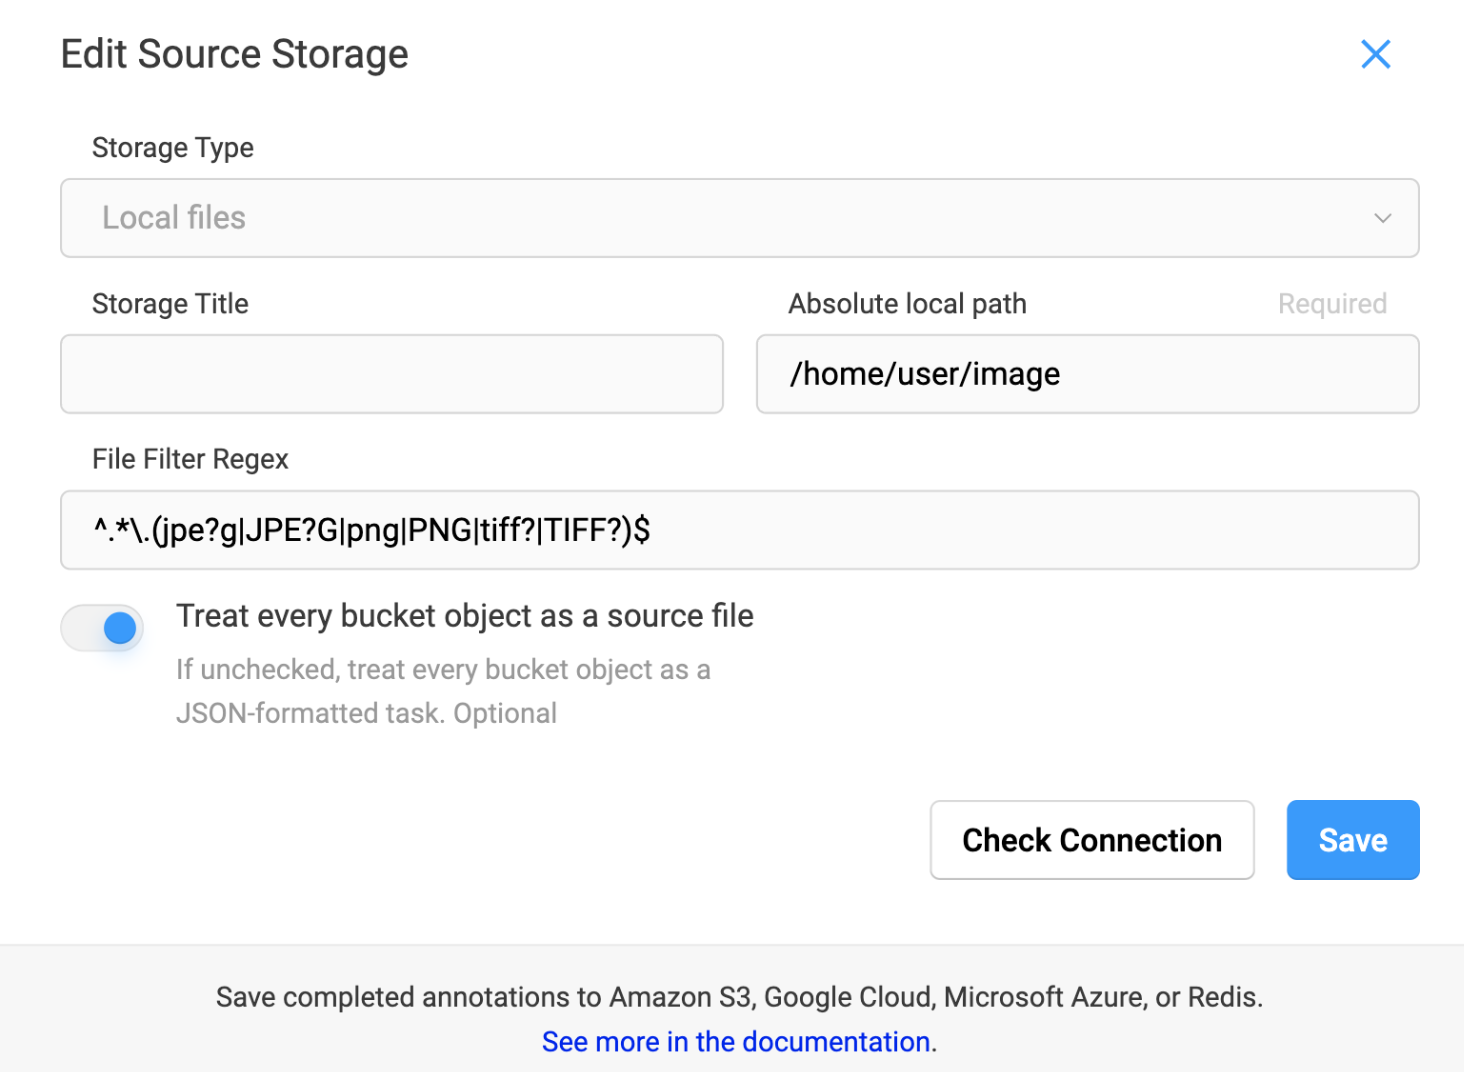
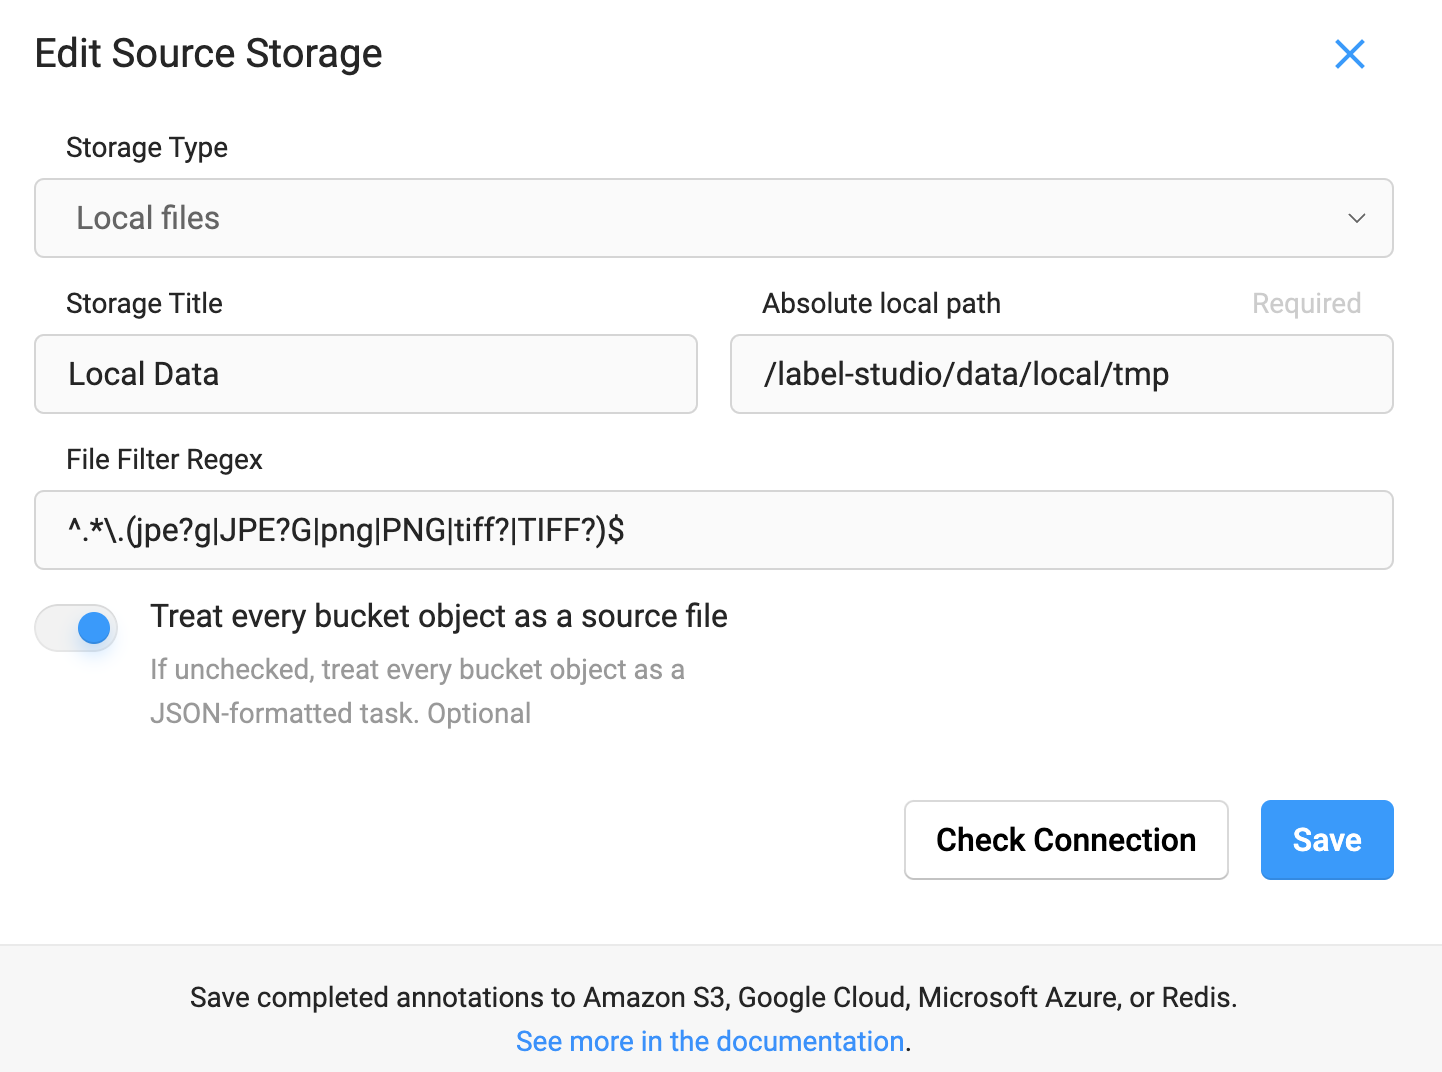
:bento: Update: LabelStudio.json()

diff --git a/zerohertzLib/vision/data.py b/zerohertzLib/vision/data.py
@@ -79,9 +79,9 @@ class LabelStudio:
         Without ``json_path``:
             >>> ls = zz.vision.LabelStudio(data_path)
             >>> ls[0]
-            ('0000007864.png', {'data': {'image': 'data/local-files/?d=image/0000007864.png'}})
+            ('0000007864.png', {'data': {'image': 'data/local-files/?d=/label-studio/data/local/tmp/0000007864.png'}})
             >>> ls[1]
-            ('0000008658.png', {'data': {'image': 'data/local-files/?d=image/0000008658.png'}})
+            ('0000008658.png', {'data': {'image': 'data/local-files/?d=/label-studio/data/local/tmp/0000008658.png'}})
 
         With ``json_path``:
             Bbox:
@@ -115,6 +115,7 @@ class LabelStudio:
     ) -> None:
         self.annotations = None
         if json_path is None:
+            self.path = "/label-studio/data/local"
             self.data_paths = _get_image_paths(data_path)
         else:
             self.annotations = Json(json_path)
@@ -131,16 +132,16 @@ class LabelStudio:
         self, idx: int
     ) -> Union[Tuple[str, Dict[str, Dict[str, str]]], Tuple[str, Dict[str, List[Any]]]]:
         if self.annotations is None:
-            file_name = self.data_paths[idx].split("/")[-1]
+            file_name = os.path.basename(self.data_paths[idx])
             return (
                 file_name,
                 {
                     "data": {
-                        "image": f"data/local-files/?d=image/{self.data_paths[idx]}"
+                        "image": f"data/local-files/?d={self.path}/{self.data_paths[idx]}"
                     }
                 },
             )
-        file_name = self.annotations[idx]["data"]["image"].split("/")[-1]
+        file_name = os.path.basename(self.annotations[idx]["data"]["image"])
         file_name = urllib.parse.unquote(file_name)
         if len(file_name) > 8 and "-" == file_name[8]:
             file_name = "-".join(file_name.split("-")[1:])
@@ -199,28 +200,28 @@ class LabelStudio:
 
     def json(
         self,
+        path: Optional[str] = "/label-studio/data/local",
         data_function: Optional[Callable[[str], Dict[str, Any]]] = None,
     ) -> None:
         """Label Studio에 mount된 data를 불러오기 위한 JSON file 생성
 
         Note:
-            아래와 같이 환경 변수가 설정된 Label Studio image를 사용하고 ``/home/user`` 에 ``image`` directory가 mount 되어야 ``LabelStudio`` class로 생성된 JSON file을 적용할 수 있다.
+            아래와 같이 환경 변수가 설정된 Label Studio image를 사용하면 ``LabelStudio`` class로 생성된 JSON file을 적용할 수 있다.
 
             .. code-block:: docker
 
                 FROM heartexlabs/label-studio
 
                 ENV LABEL_STUDIO_LOCAL_FILES_SERVING_ENABLED=true
-                ENV LABEL_STUDIO_LOCAL_FILES_DOCUMENT_ROOT=/home/user
 
             .. code-block:: bash
 
-                docker run --name label-studio -p 8080:8080 -v ${PWD}/files:/home/user label-studio
+                docker run --name label-studio -p 8080:8080 -v ${PWD}/data:/label-studio/data label-studio
 
             ``Projects`` → ``{PROJECT_NAME}`` → ``Settings`` → ``Cloud Storage`` → ``Add Source Storage`` 클릭 후 아래와 같이 정보를 기재하고 ``Sync Storage`` 를 누른다.
 
             + Storage Type: ``Local files``
-            + Absolute local path: ``/home/user/image`` (``data_path``: ``${PWD}/files/image``)
+            + Absolute local path: ``/label-studio/data/local/${PATH}`` (``data_path``: ``${PWD}/data/local``)
             + File Filter Regex: ``^.*\.(jpe?g|JPE?G|png|PNG|tiff?|TIFF?)$``
             + Treat every bucket object as a source file: ``True``
 
@@ -235,6 +236,7 @@ class LabelStudio:
                 :width: 400px
 
         Args:
+            path (``Optional[str]``): Local files의 경로
             data_function (``Optional[Callable[[str], Dict[str, Any]]]``): Label Studio에서 사용할 수 있는 ``data`` 항목 추가 함수 (예시 참고)
 
         Returns:
@@ -251,7 +253,7 @@ class LabelStudio:
                     [
                         {
                             "data": {
-                                "image": "data/local-files/?d=image/0000007864.png"
+                                "image": "data/local-files/?d=/label-studio/data/local/tmp/0000007864.png"
                             }
                         },
                         {
@@ -276,16 +278,9 @@ class LabelStudio:
                     [
                         {
                             "data": {
-                                "image": "data/local-files/?d=image/0000007864.png",
+                                "image": "data/local-files/?d=/label-studio/data/local/tmp/0000007864.png",
                                 "Label": "...",
                                 "patient_id": "...",
-                                "file_name": "...",
-                                "외래/입원": "...",
-                                "성별": "...",
-                                "나이(세)": "...",
-                                "나이(개월)": "...",
-                                "나이(세월)": "...",
-                                "나이대": "...",
                                 "...": "...",
                             }
                         },
@@ -296,6 +291,7 @@ class LabelStudio:
                         },
                     ]
         """
+        self.path = path
         json_data = []
         for file_name, data in tqdm(self):
             if "aug" in file_name:
